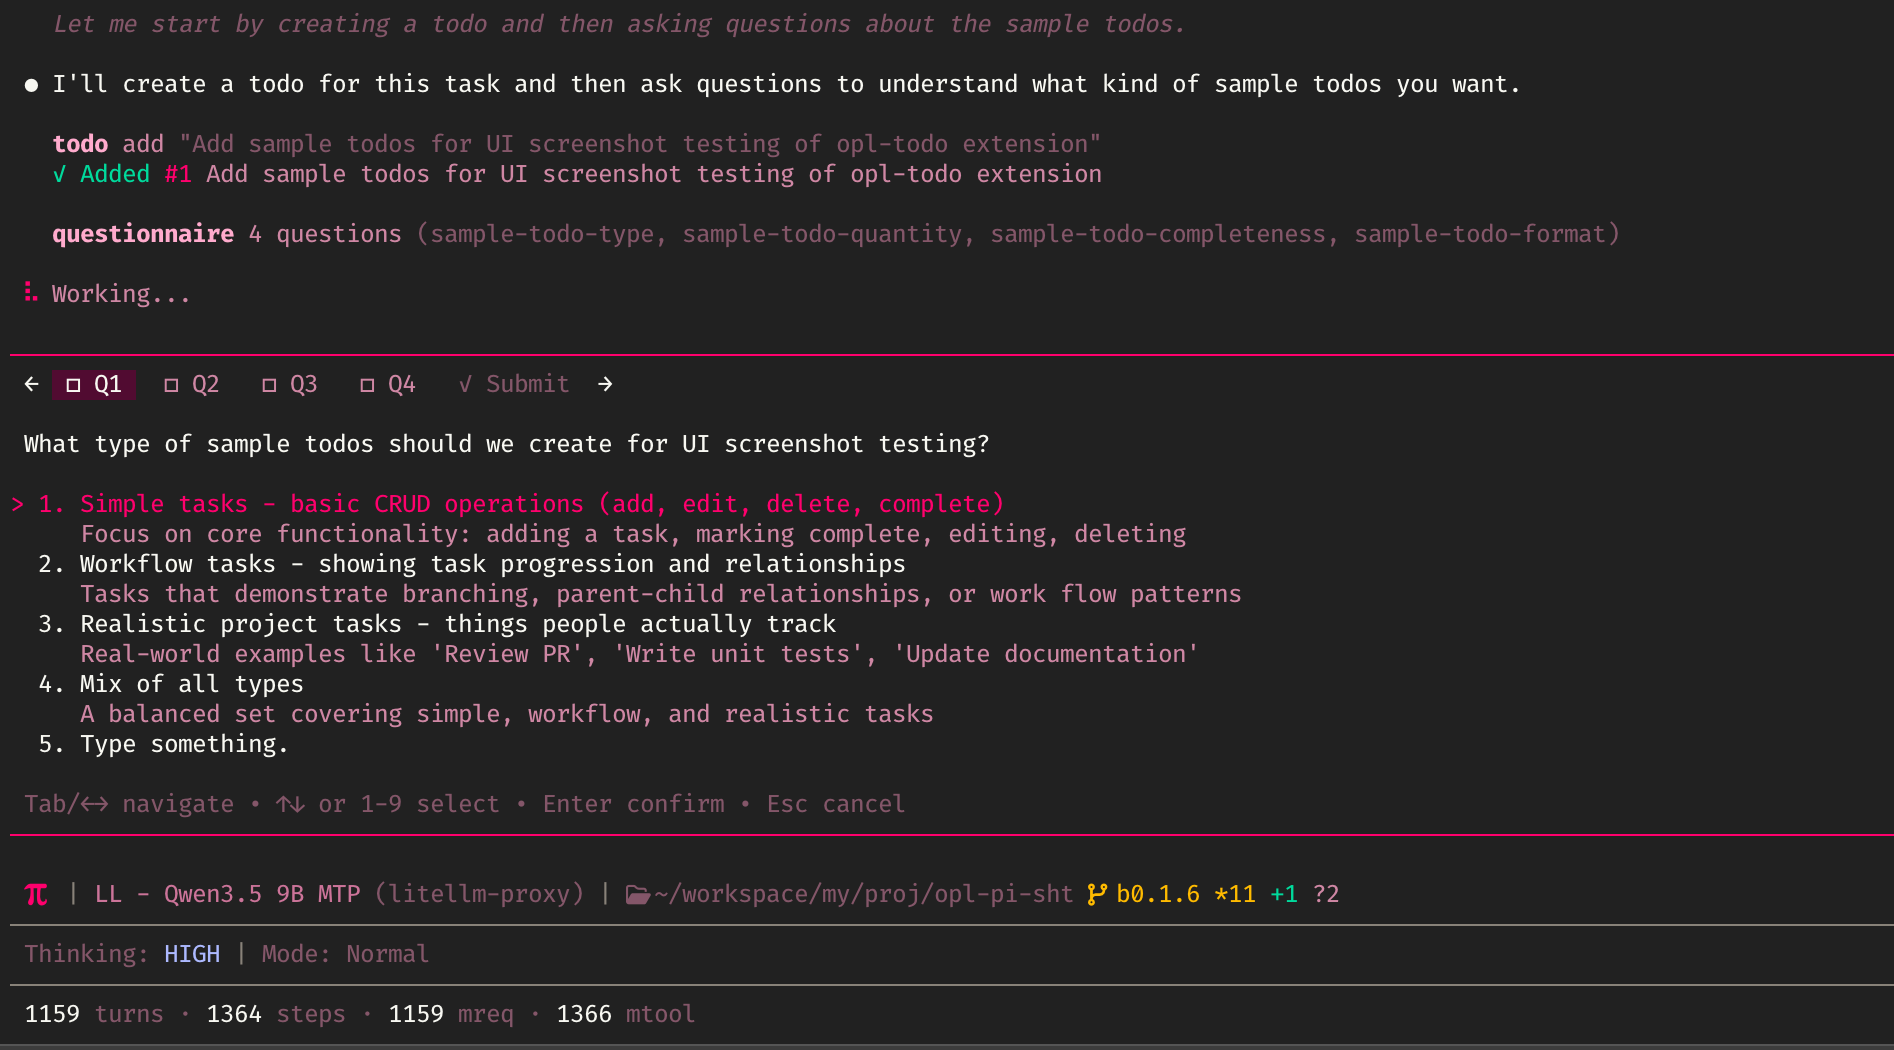
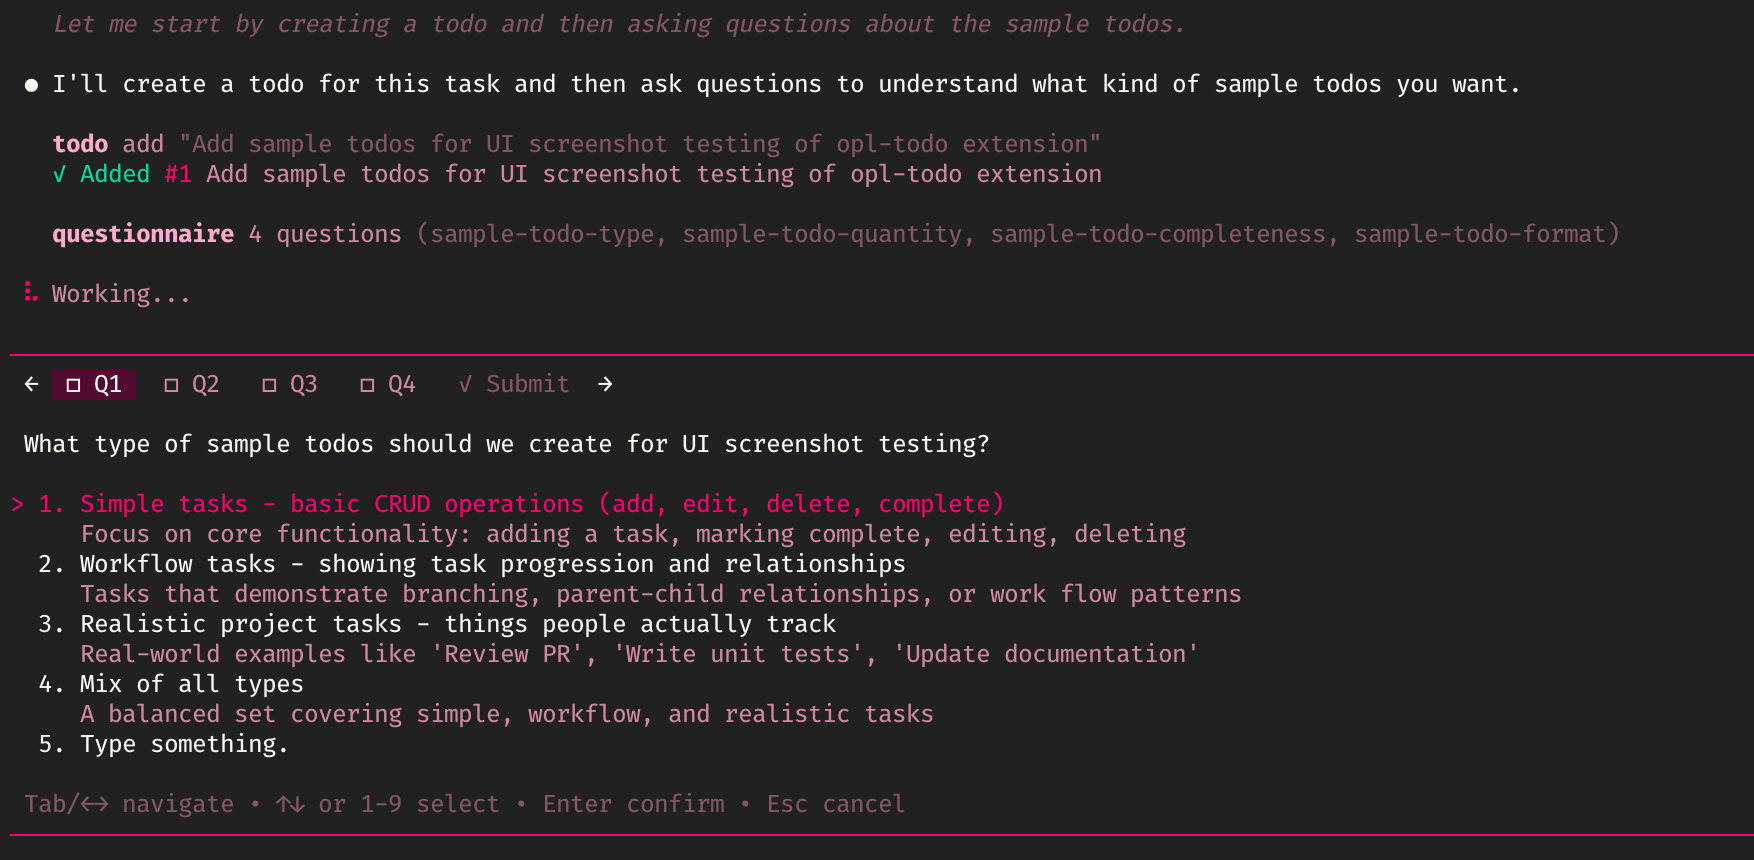
chore: bumped version, updated images, docs

diff --git a/README.md b/README.md
@@ -15,8 +15,8 @@
 A portable collection of various Pi coding agent extensions. Repository directories and config files use `opl-`; established Pi-facing commands and tool names stay compatible.
 
 >
-> ### v0.2.9 - pi dependencies patch, updated test scripts
-> - `devDependencies` updated to `>=0.87.0`, conforming to latest pi release `v0.99.x`; TUI and tests updates
+> ### v0.2.10 - Codex subscription usage in opl-footer
+> - `opl-footer` added ChatGPT Codex subs 5-hour/weekly quota segment with reset countdowns and stale-snapshot fallback.
 > ### v0.2.8 - SSRF and tool-safety hardening
 > - `opl-webaccess` and `opl-browser` block private/link-local hosts by default and cloud metadata always (localhost stays available for dev), fetch redirects are re-checked per hop, screenshots refuse to overwrite existing files, and `evaluate` no longer crashes on `undefined`.
 >
@@ -92,7 +92,7 @@ Copy mode overwrites matching destinations. Link mode skips existing destination
 | [`opl-questionnaire`](extensions/opl-questionnaire/README.md) | Interactive structured-choice tool.                                                                                                                                                                                          | `questionnaire`; no config.                                                                                    |
 | [`opl-input`](extensions/opl-input/README.md)                 | Configurable replacement editor - enhanced [pikit chat-input](https://github.com/adrianapan/pikit) (because pet is life, and configurable). ![pet](images/ss-input-pet.png)                                                                                   | No commands/tools;`opl-input.json`.                                                                            |
 | [`opl-modes`](extensions/opl-modes/README.md)                 | Mode, plan, tool-safety, lazy-tool-loading, and active-appearance manager - highly-modified, configrable and enhanced mode-switcher.                                                                                         | `/mode`, `/chat`, `/plan`, `/execute`, `plan_complete`, `load_tools`; `opl-modes.json`.                        |
-| [`opl-footer`](extensions/opl-footer/README.md)               | Configurable multi-row status footer - highly-specialized, and enhanced [pikit footer](https://github.com/adrianapan/pikit).                                                                                                  | `/configure-opl`; `opl-footer.json`.                                                                           |
+| [`opl-footer`](extensions/opl-footer/README.md)               | Configurable multi-row status footer - highly-specialized, and enhanced [pikit footer](https://github.com/adrianapan/pikit).                                      | `/configure-opl`; `opl-footer.json`.                                                                           |
 
 ## What you'll gain
 
@@ -137,7 +137,7 @@ Cold prompt-cache write, measured /init session (opl-modes lazy tools + MCP adap
 
 ### See what the agent is doing
 
-- **`opl-footer`** surfaces model, cost, token and cache activity, git state, agent status, and per-turn timing in a configurable multi-row footer; `/configure-opl` edits and reorders its layout interactively.
+- **`opl-footer`** surfaces model, cost, token and cache activity, git state, agent status, per-turn timing, and an optional exact remaining ChatGPT Codex 5-hour/weekly subscription-quota segment with reset countdowns and stale-snapshot fallback; `/configure-opl` edits and reorders its layout interactively.
 - **`opl-input`** is a configurable editor that reflects the active mode's identity, so you always know which mode you are typing into.
 ![input-footer](images/ss-input-footer.png)
 

diff --git a/CHANGELOG.md b/CHANGELOG.md
@@ -1,5 +1,22 @@
 # Changelog
 
+## [0.2.10] - 2026-10-02
+
+### Added
+
+- **`opl-footer`**: added the optional `codex_usage` segment for exact remaining ChatGPT Codex subscription quota. It displays server-reported 5-hour and weekly remaining percentages with reset countdowns for the OAuth-authenticated `openai-codex` provider, separate from OpenAI Platform API-key billing.
+
+### Reliability
+
+- **`opl-footer`**: Codex usage refreshes asynchronously after session start, model selection, and settled turns with request deduplication, a 30-second refresh floor, and a 15-second timeout
+  - Footer rendering never performs network work; failed refreshes retain and label the last exact snapshot as `(stale)`, while disabling the segment prevents future requests, discards any in-flight result, and a first-request failure remains hidden.
+  - OAuth credentials are resolved through Pi and are never logged or persisted by the footer.
+  - Internal ChatGPT usage response is duration-based window parsing; unsupported or malformed responses fail closed without disrupting the footer.
+
+### Tests
+
+- **`opl-footer`**: added coverage for duration-based window parsing, OAuth/account request headers, exact and stale rendering, provider rejection, and stale fallback.
+
 ## [0.2.9] - 2026-09-29
 
 ### Changed
